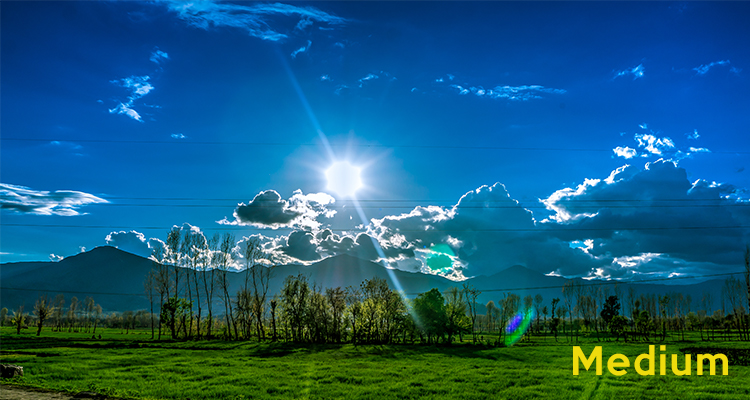
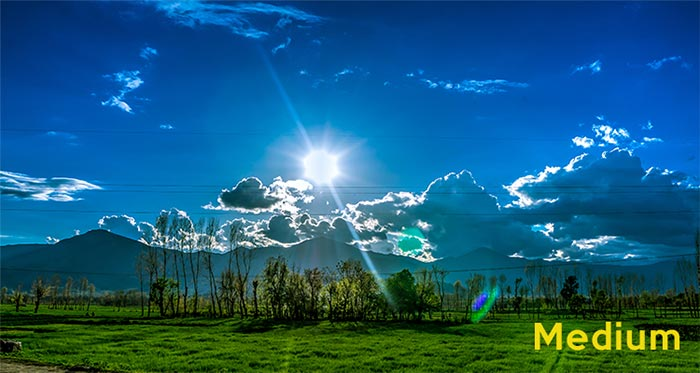
commit lesson6

diff --git a/lesson6/preston-6.html b/lesson6/preston-6.html
@@ -7,7 +7,6 @@
         <title>Hello Storm</title>
         <meta name="author" content="Randeep Singh Ranu">
         <meta name="description" content="A weather site used to check current information on storms in the Philippines">
-        <link href="https://fonts.googleapis.com/css?family=Montserrat|Open+Sans&display=swap" rel="stylesheet">
         <link rel="stylesheet" type="text/css" href="css/normalize.css">
         <link rel="stylesheet" type="text/css" href="css/small.css">
         <link rel="stylesheet" type="text/css" href="css/medium.css">
@@ -49,10 +48,9 @@
 
             <section id="hero-ph">
                 <picture>
-                    <img src="assets/hero-large.jpg" alt="Preston Town" 
-                    srcset="assets/hero-small.jpg 300w,
-                    assets/hero-medium.jpg 500w,
-                    assets/hero-large.jpg 800w,">
+                    <source media="(max-width: 400px)" srcset="assets/hero-small.jpg">
+                    <source media="(max-width: 700px)" srcset="assets/hero-medium.jpg">
+                    <img src="assets/hero-large.jpg" alt="Preston Town">
 
                 </picture>
                 <div id="overlay">
@@ -162,6 +160,17 @@
             <p id="lastModif"></p>
         </footer>
         <section class="yellowLine"></section>
+
+        <script src="https://ajax.googleapis.com/ajax/libs/webfont/1.6.26/webfont.js"></script>
+        <script>    
+            WebFont.load({
+                google: {
+                families: [
+                    'Montserrat'
+                ]
+                }
+            });
+          </script>
 
         <script src="js/mainScript.js"></script>
         <script src="js/windchill.js"></script>

diff --git a/index.html b/index.html
@@ -8,7 +8,7 @@
         <link rel="shortcut icon" href="favicon.ico">
         <meta name="author" content="Randeep Singh Ranu">
         <meta name="description" content="The assignment portal for Randeep Ranu in CIT 230: Web Frontend Development at Brigham Young University - Idaho">
-        
+        <!-- <link href="https://fonts.googleapis.com/css?family=Montserrat|Open+Sans&display=swap" rel="stylesheet"> -->
         <link rel="stylesheet" type="text/css" href="/css/normalize.css">
         <link rel="stylesheet" type="text/css" href="/css/small.css">
         <link rel="stylesheet" type="text/css" href="/css/medium.css">
@@ -41,15 +41,15 @@
         </footer>
 
         <script src="https://rfranu7.github.io/js/mainScript.js"></script>
-        <script src="https://ajax.googleapis.com/ajax/libs/webfont/1.6.26/webfont.js"></script>
-        <script>    
+        <!-- <script src="https://ajax.googleapis.com/ajax/libs/webfont/1.6.26/webfont.js"></script>
+        <script type="text/javascript">    
             WebFont.load({
                 google: {
                 families: [
-                    'Montserrat', 'Open+Sans'
+                    'Montserrat'
                 ]
                 }
             });
-          </script>
+          </script> -->
     </body>
 </html>

diff --git a/lesson6/css/small.css b/lesson6/css/small.css
@@ -107,7 +107,7 @@ main section {
 #hero-ph img {
     margin: auto;
     max-width: 100%;
-    margin-bottom: 3rem;
+    margin-bottom: 1rem;
 }
 
 #overlay {
